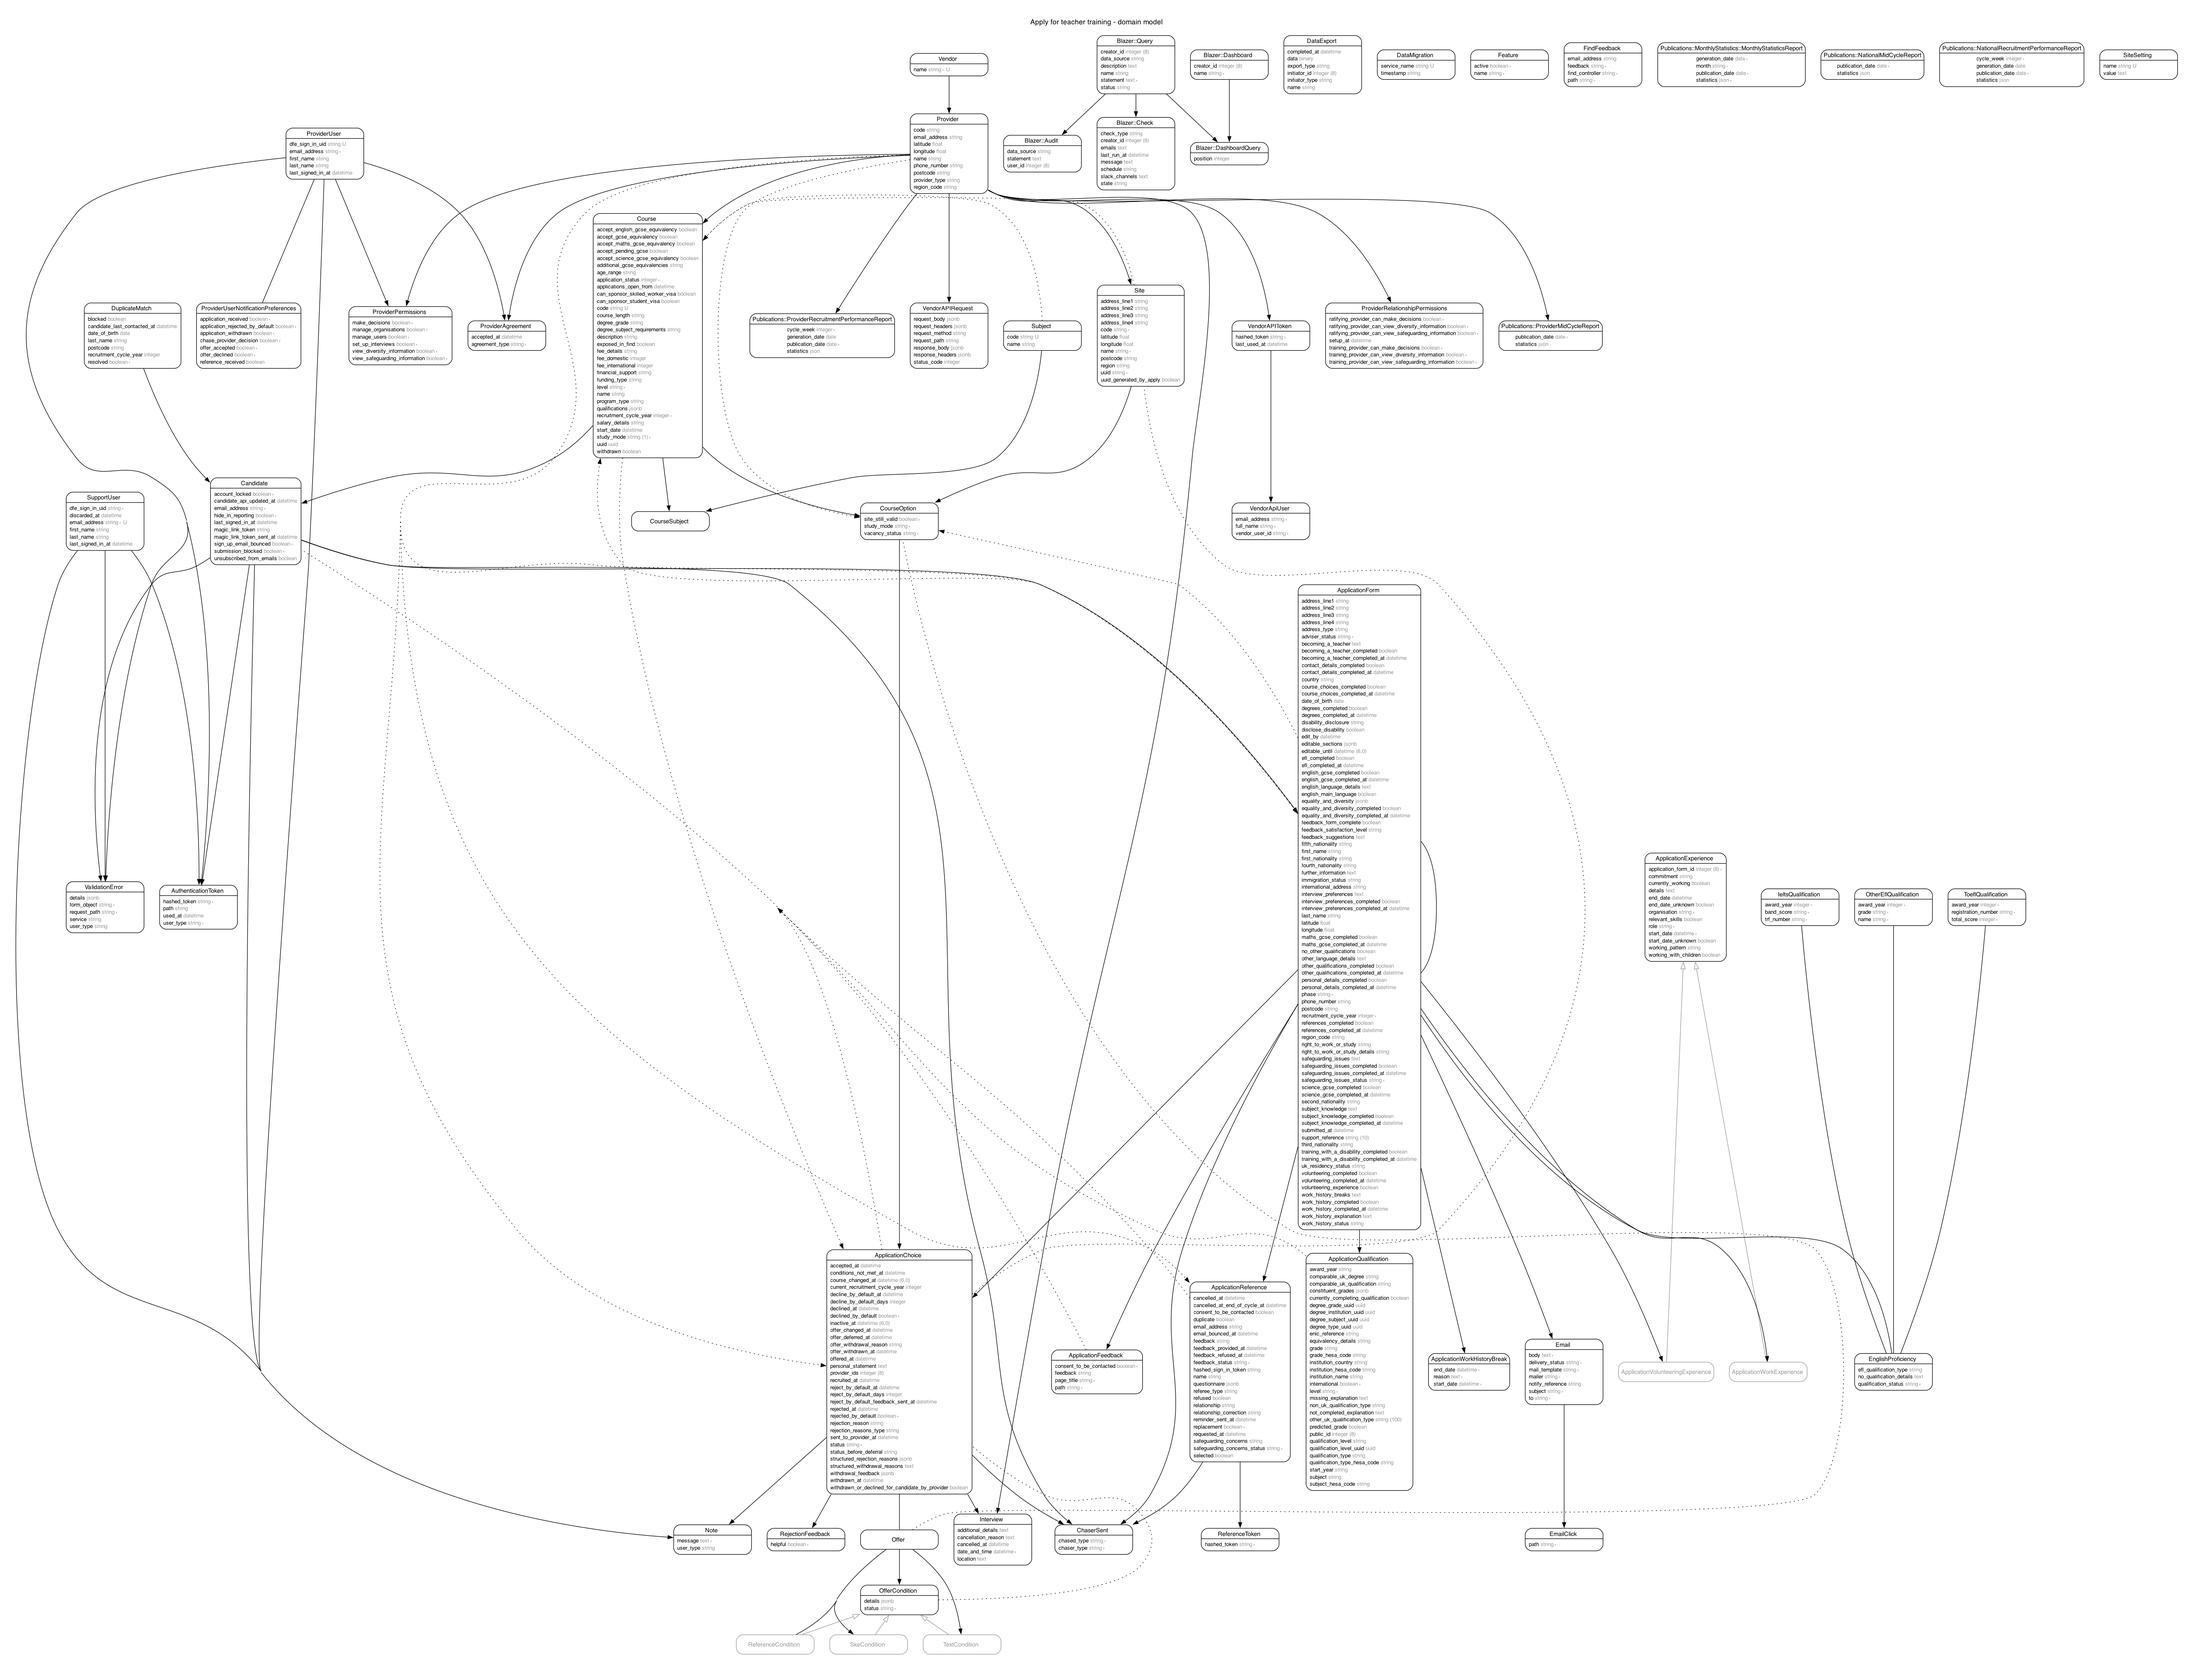
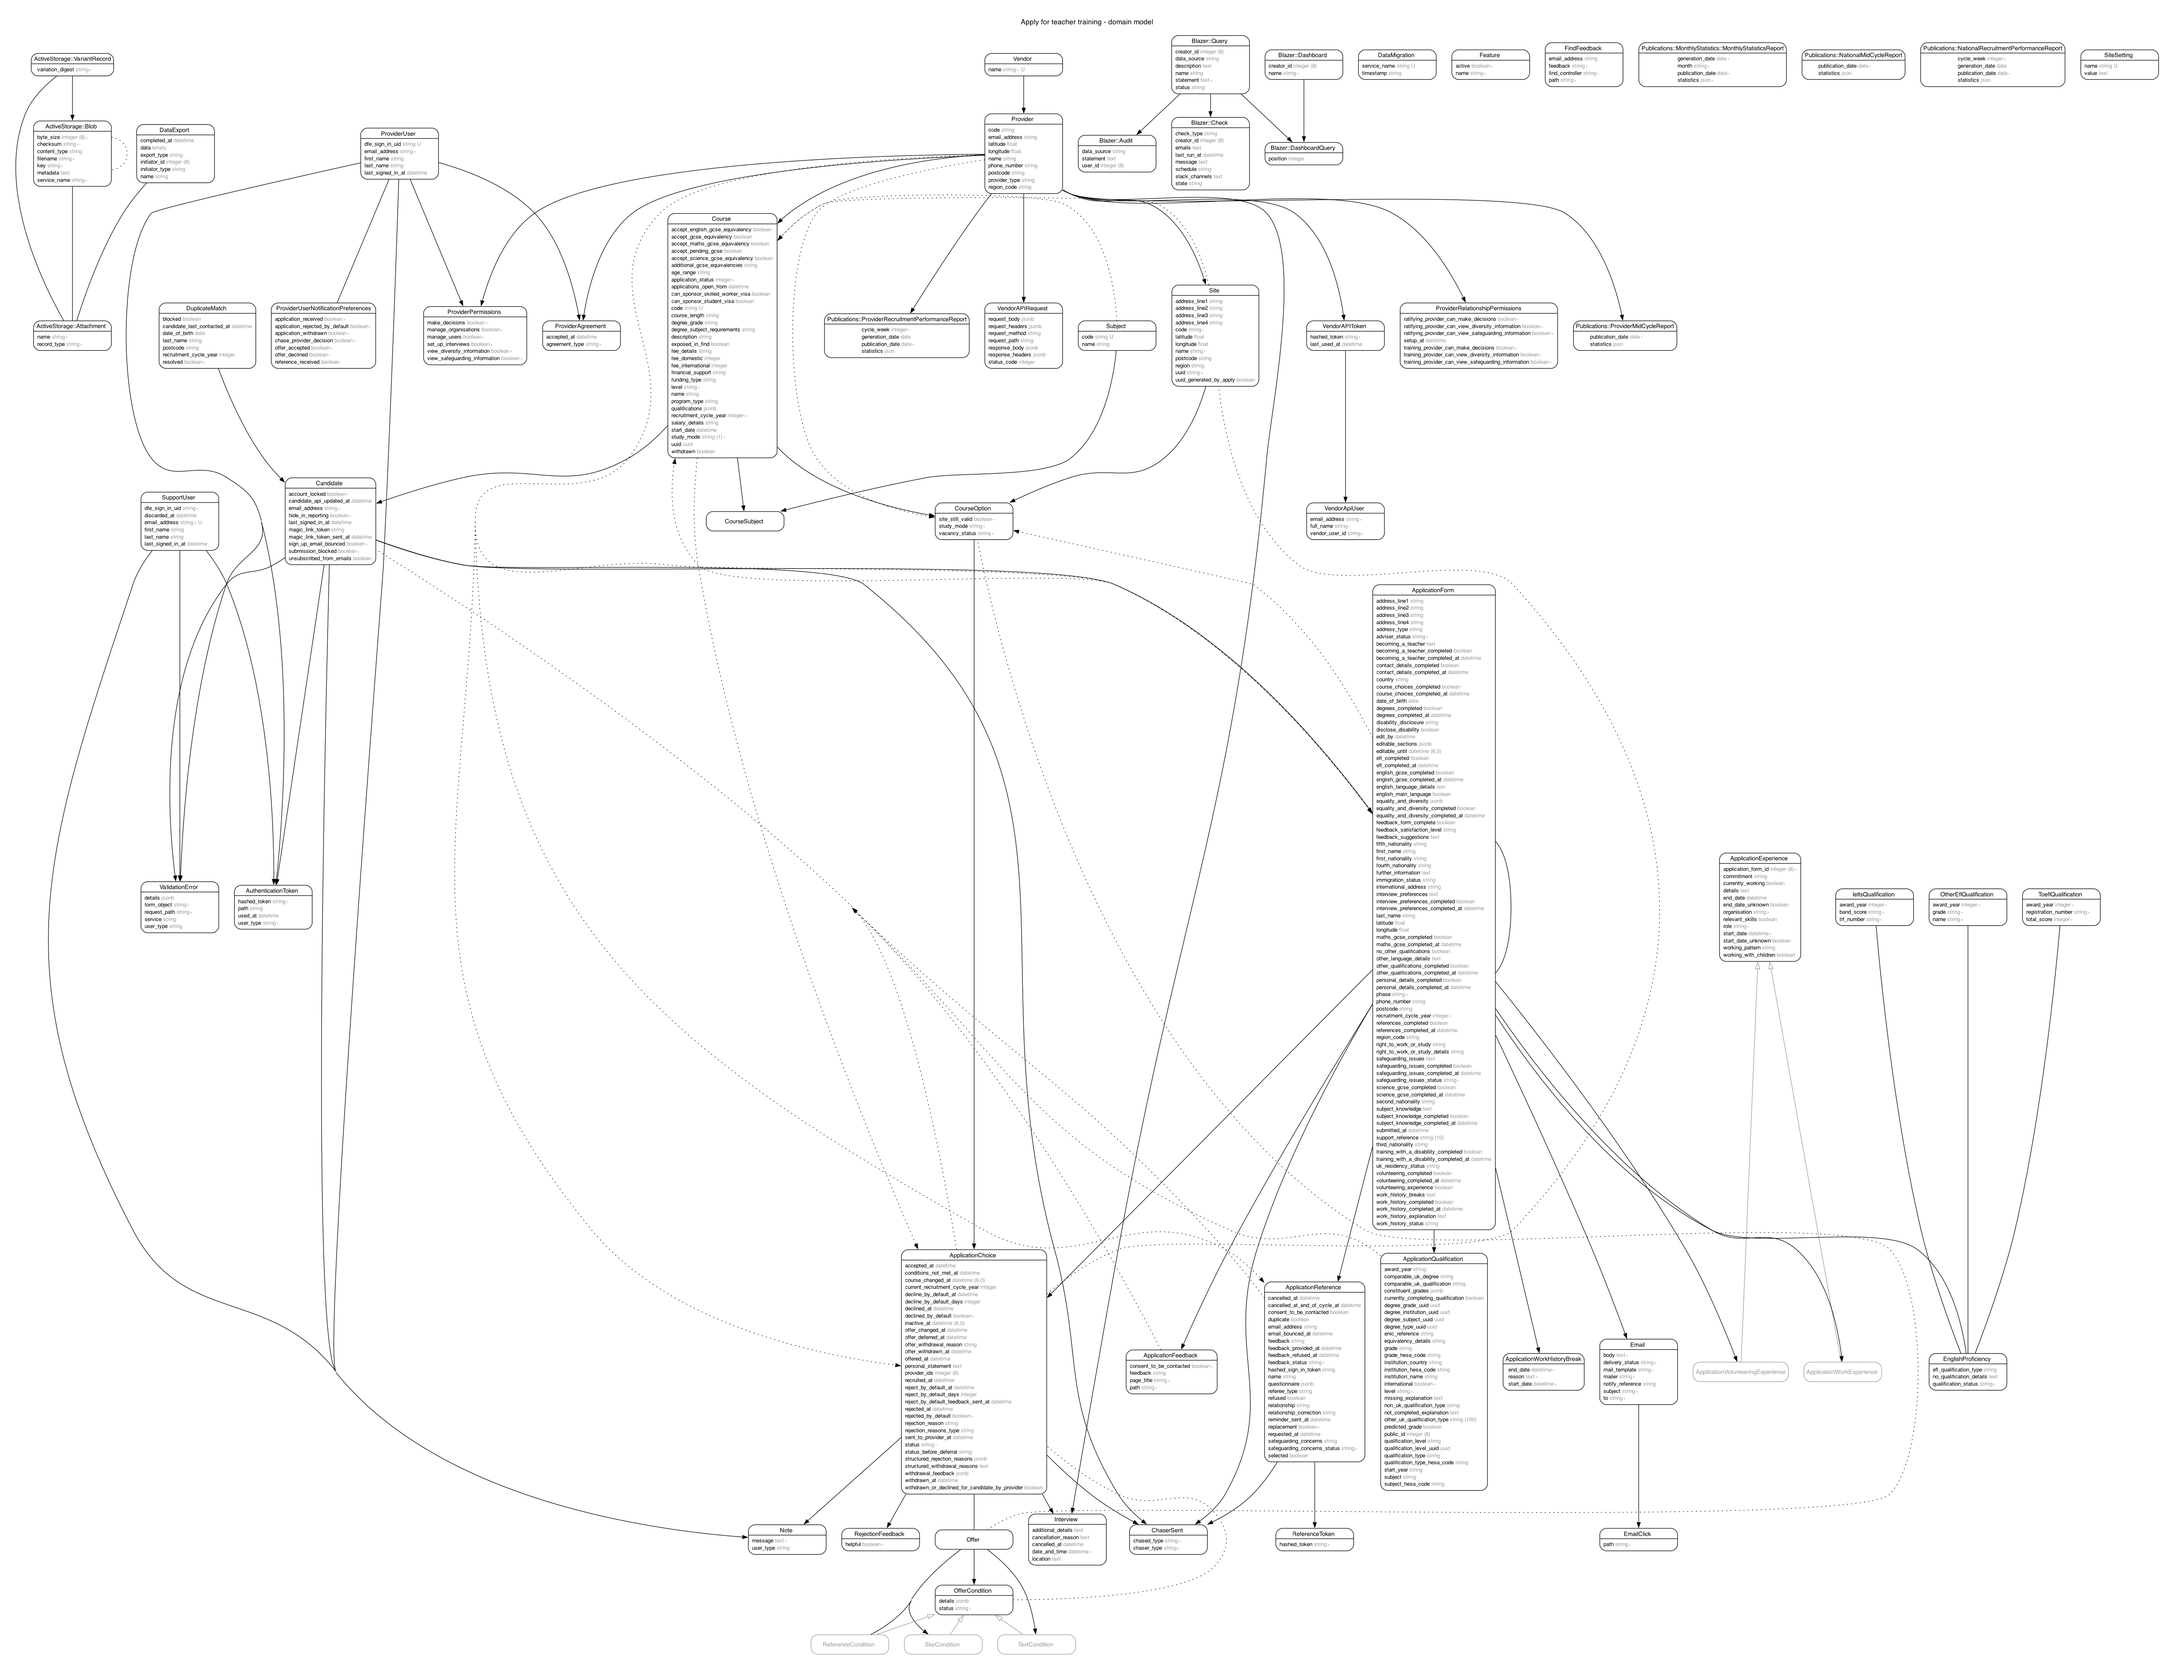
Add ActiveStorage and AzureBlob
As the "azure-storage-blob" has been recently deprecated, we've decided to adopt a new community driven alternative, "azure-blob".

diff --git a/db/migrate/20240528092412_create_active_storage_tables.active_storage.rb b/db/migrate/20240528092412_create_active_storage_tables.active_storage.rb
@@ -1,0 +1,64 @@
+# This migration comes from active_storage (originally 20170806125915)
+class CreateActiveStorageTables < ActiveRecord::Migration[7.0]
+  def change
+    # Use Active Record's configured type for primary and foreign keys
+    primary_key_type, foreign_key_type = primary_and_foreign_key_types
+
+    create_table :active_storage_blobs, id: primary_key_type do |t|
+      t.string   :key,          null: false
+      t.string   :filename,     null: false
+      t.string   :content_type
+      t.text     :metadata
+      t.string   :service_name, null: false
+      t.bigint   :byte_size,    null: false
+      t.string   :checksum
+
+      if connection.supports_datetime_with_precision?
+        t.datetime :created_at, precision: 6, null: false
+      else
+        t.datetime :created_at, null: false
+      end
+
+      t.index [:key], unique: true
+    end
+
+    create_table :active_storage_attachments, id: primary_key_type do |t|
+      t.string     :name,     null: false
+      t.references :record,   null: false, polymorphic: true, index: false, type: foreign_key_type
+      t.references :blob,     null: false, type: foreign_key_type
+
+      if connection.supports_datetime_with_precision?
+        t.datetime :created_at, precision: 6, null: false
+      else
+        t.datetime :created_at, null: false
+      end
+
+      t.index %i[record_type record_id name blob_id], name: :index_active_storage_attachments_uniqueness, unique: true
+      t.foreign_key :active_storage_blobs, column: :blob_id
+    end
+
+    create_table :active_storage_variant_records, id: primary_key_type do |t|
+      t.belongs_to :blob, null: false, index: false, type: foreign_key_type
+      t.string :variation_digest, null: false
+
+      if connection.supports_datetime_with_precision?
+        t.datetime :created_at, precision: 6, null: false
+      else
+        t.datetime :created_at, null: false
+      end
+
+      t.index %i[blob_id variation_digest], name: :index_active_storage_variant_records_uniqueness, unique: true
+      t.foreign_key :active_storage_blobs, column: :blob_id
+    end
+  end
+
+private
+
+  def primary_and_foreign_key_types
+    config = Rails.configuration.generators
+    setting = config.options[config.orm][:primary_key_type]
+    primary_key_type = setting || :primary_key
+    foreign_key_type = setting || :bigint
+    [primary_key_type, foreign_key_type]
+  end
+end

diff --git a/db/schema.rb b/db/schema.rb
@@ -10,13 +10,41 @@
 #
 # It's strongly recommended that you check this file into your version control system.
 
-ActiveRecord::Schema[7.1].define(version: 2024_04_22_143426) do
+ActiveRecord::Schema[7.1].define(version: 2024_05_28_092412) do
   create_sequence "qualifications_public_id_seq", start: 120000
 
   # These are extensions that must be enabled in order to support this database
   enable_extension "pgcrypto"
   enable_extension "plpgsql"
   enable_extension "unaccent"
+
+  create_table "active_storage_attachments", force: :cascade do |t|
+    t.string "name", null: false
+    t.string "record_type", null: false
+    t.bigint "record_id", null: false
+    t.bigint "blob_id", null: false
+    t.datetime "created_at", null: false
+    t.index ["blob_id"], name: "index_active_storage_attachments_on_blob_id"
+    t.index ["record_type", "record_id", "name", "blob_id"], name: "index_active_storage_attachments_uniqueness", unique: true
+  end
+
+  create_table "active_storage_blobs", force: :cascade do |t|
+    t.string "key", null: false
+    t.string "filename", null: false
+    t.string "content_type"
+    t.text "metadata"
+    t.string "service_name", null: false
+    t.bigint "byte_size", null: false
+    t.string "checksum"
+    t.datetime "created_at", null: false
+    t.index ["key"], name: "index_active_storage_blobs_on_key", unique: true
+  end
+
+  create_table "active_storage_variant_records", force: :cascade do |t|
+    t.bigint "blob_id", null: false
+    t.string "variation_digest", null: false
+    t.index ["blob_id", "variation_digest"], name: "index_active_storage_variant_records_uniqueness", unique: true
+  end
 
   create_table "application_choices", force: :cascade do |t|
     t.bigint "application_form_id", null: false
@@ -861,6 +889,8 @@ ActiveRecord::Schema[7.1].define(version: 2024_04_22_143426) do
     t.index ["name"], name: "index_vendors_on_name", unique: true
   end
 
+  add_foreign_key "active_storage_attachments", "active_storage_blobs", column: "blob_id"
+  add_foreign_key "active_storage_variant_records", "active_storage_blobs", column: "blob_id"
   add_foreign_key "application_choices", "application_forms", on_delete: :cascade
   add_foreign_key "application_choices", "course_options"
   add_foreign_key "application_experiences", "application_forms", on_delete: :cascade

diff --git a/spec/config/routes_spec.rb b/spec/config/routes_spec.rb
@@ -5,11 +5,8 @@ RSpec.describe 'routes.rb' do
     paths = Rails.application.routes.routes.map { |r| r.path.spec.to_s if r.defaults[:controller] }.compact
 
     paths.each do |path|
-      next if path.in?(
-        %w[/rails/view_components(.:format)
-           /_system_test_entrypoint(.:format)
-           /rails/view_components/*path(.:format)],
-      )
+      next if path.starts_with?('/rails')
+      next if path == '/_system_test_entrypoint(.:format)'
 
       has_underscores = path.split('/').any? { |component| !component.start_with?(':') && component.match('_') }
 

diff --git a/config/environments/production.rb b/config/environments/production.rb
@@ -160,4 +160,6 @@ Rails.application.configure do
                                                Modules::AWSIpRanges.cloudfront_ips.map { |proxy| IPAddr.new(proxy) },
                                              ].flatten
                                            end
+
+  config.active_storage.service = :azure
 end

diff --git a/config/application.rb b/config/application.rb
@@ -8,7 +8,7 @@ require "active_record/railtie"
 require "action_controller/railtie"
 require "action_mailer/railtie"
 require "action_view/railtie"
-# require "active_storage/engine"
+require "active_storage/engine"
 # require "action_text/engine"
 # require "action_mailbox/engine"
 # require "action_cable/engine"

diff --git a/config/environments/test.rb b/config/environments/test.rb
@@ -67,4 +67,6 @@ Rails.application.configure do
   config.active_job.queue_adapter = :inline
 
   config.x.read_only_database_url = "postgres://localhost/bat_apply_test"
+
+  config.active_storage.service = :test
 end

diff --git a/config/environments/development.rb b/config/environments/development.rb
@@ -102,4 +102,6 @@ Rails.application.configure do
   config.hosts << "host.docker.internal"
   # Allow Github Codespaces
   config.hosts << ".preview.app.github.dev"
+
+  config.active_storage.service = :local
 end

diff --git a/docs/infra/azure-storage.md b/docs/infra/azure-storage.md
@@ -1,0 +1,35 @@
+# Azure Storage
+
+We use Azure Storage as our ActiveStorage backend for storing files, such as CSVs and images.
+
+To learn more about Azure Storage, see the [Azure Storage documentation](https://docs.microsoft.com/en-us/azure/storage/).
+
+## How to setup ActiveStorage with Azure Storage
+
+To setup ActiveStorage with Azure Storage, you will need to add the following env vars:
+
+```properties
+AZURE_STORAGE_ACCOUNT_NAME=your_storage_account_name
+AZURE_STORAGE_ACCESS_KEY=your_storage_account_key
+AZURE_STORAGE_CONTAINER=your_container_name
+```
+
+## Navigating to Azure Storage in the Azure Portal
+
+You can manage Azure Storage in the Azure Portal by navigating/searching for "Storage account".
+
+![Storage accounts icon](azure-storage/storage-accounts-icon.png)
+
+Once you are in the Storage accounts menu, ensure a container is setup:
+
+![Storage accounts menu pointing to containers](azure-storage/storage-accounts-menu.png)
+
+Once you have an account and container set up, you can now get an access key:
+
+![Access keys menu](azure-storage/storage-accounts-access-keys-menu.png)
+
+You can now "Show" and copy one of the access key and add it to your env vars.
+
+Your storage account name will also be on this page.
+
+![Access keys](azure-storage/storage-accounts-access-keys.png)

diff --git a/adr/0023-add-active-storage-with-azure-storage.md b/adr/0023-add-active-storage-with-azure-storage.md
@@ -1,0 +1,18 @@
+# 23. Add Active Storage with Azure Storage
+
+**Date:** 31/05/2024
+
+## Status:
+
+Proposed
+
+## Context
+
+Our `data_exports` table currently stores csv files in binary format. This causes each row to be very large and slow to query. We want to move these files to Active Storage to improve performance and reduce the size of the table. This will also make database backups much more efficient.
+
+## Consequences:
+
+- We will have an additional 3rd party dependency in production - Azure Storage.
+- We will need to update our CI/CD pipeline to include spinning up Azure Storage instances.
+- We will need to add Azure Storage env vars to the production config.
+- We will also need to backup Azure Storage accounts/containers as part of our disaster recovery plan.
